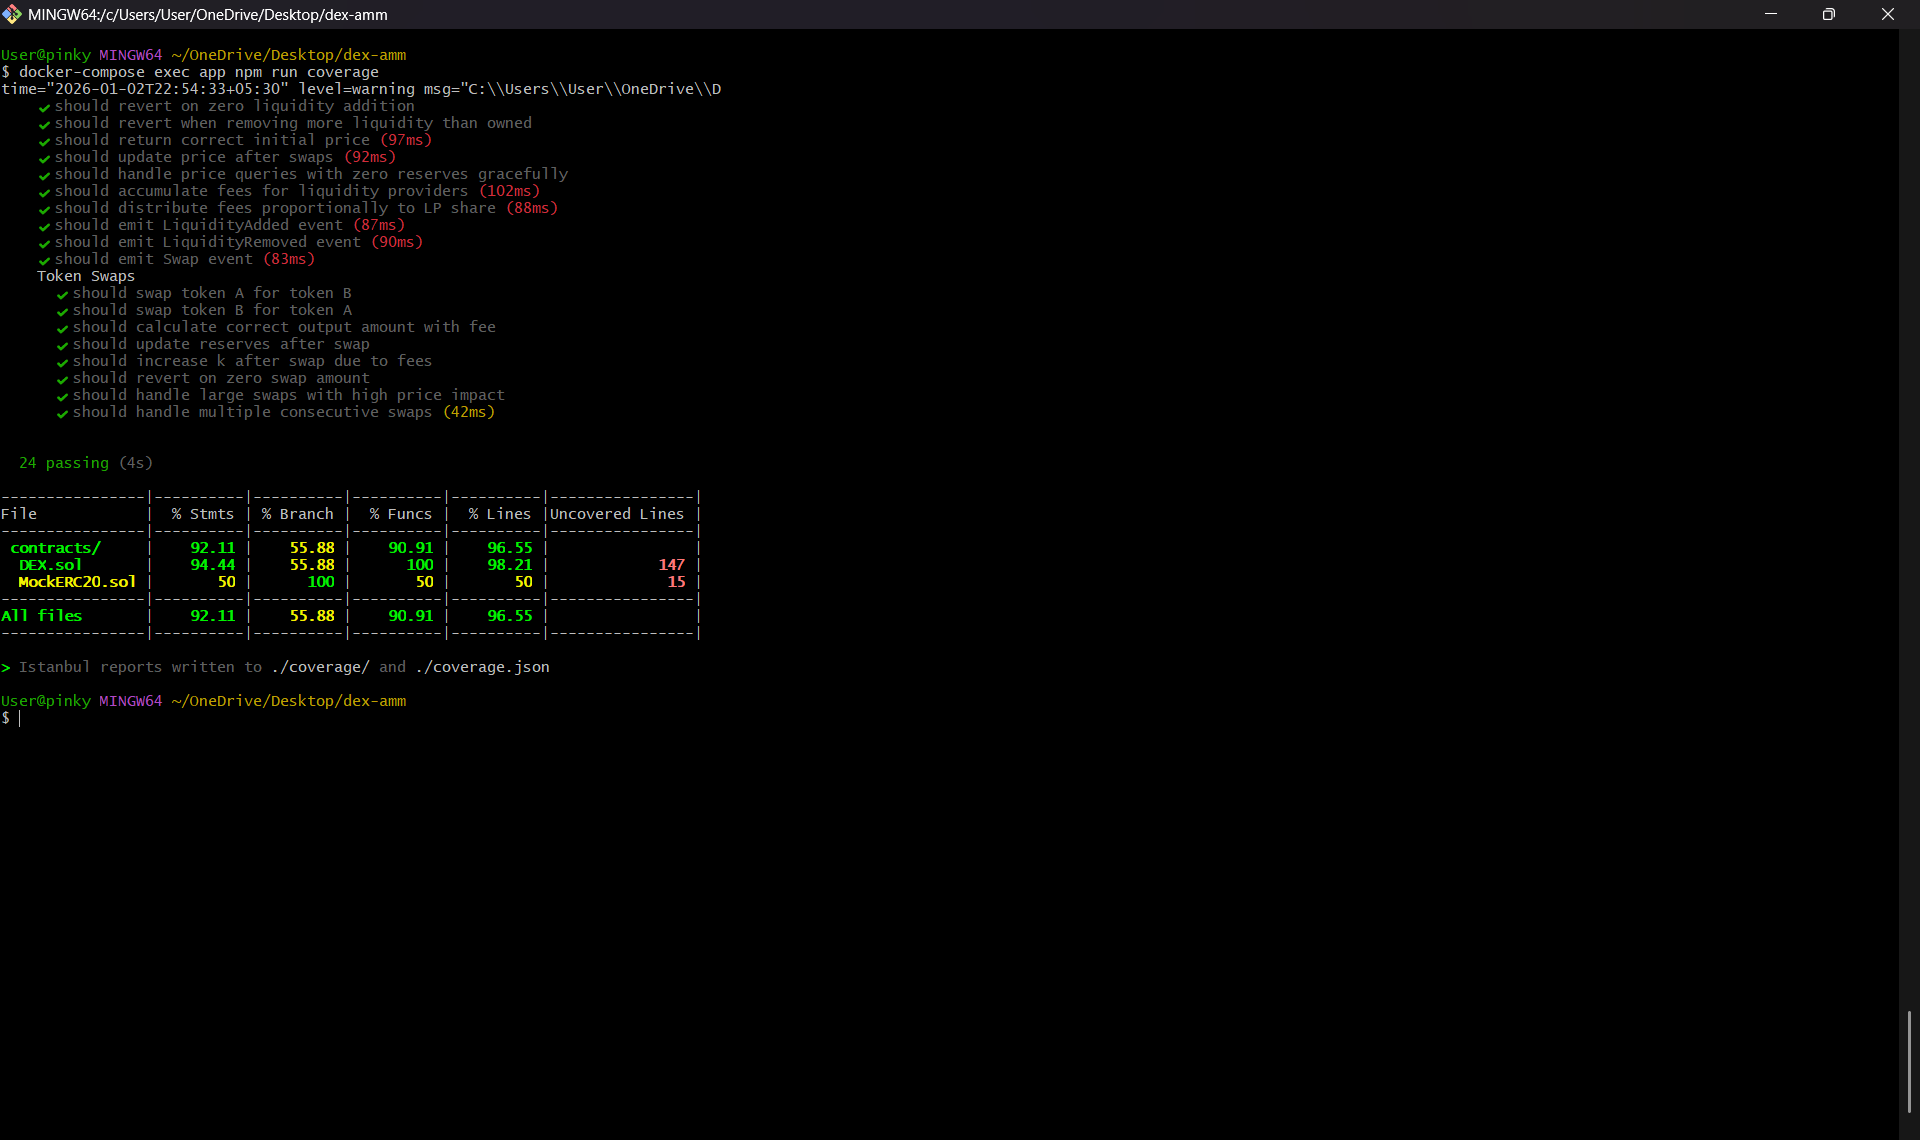
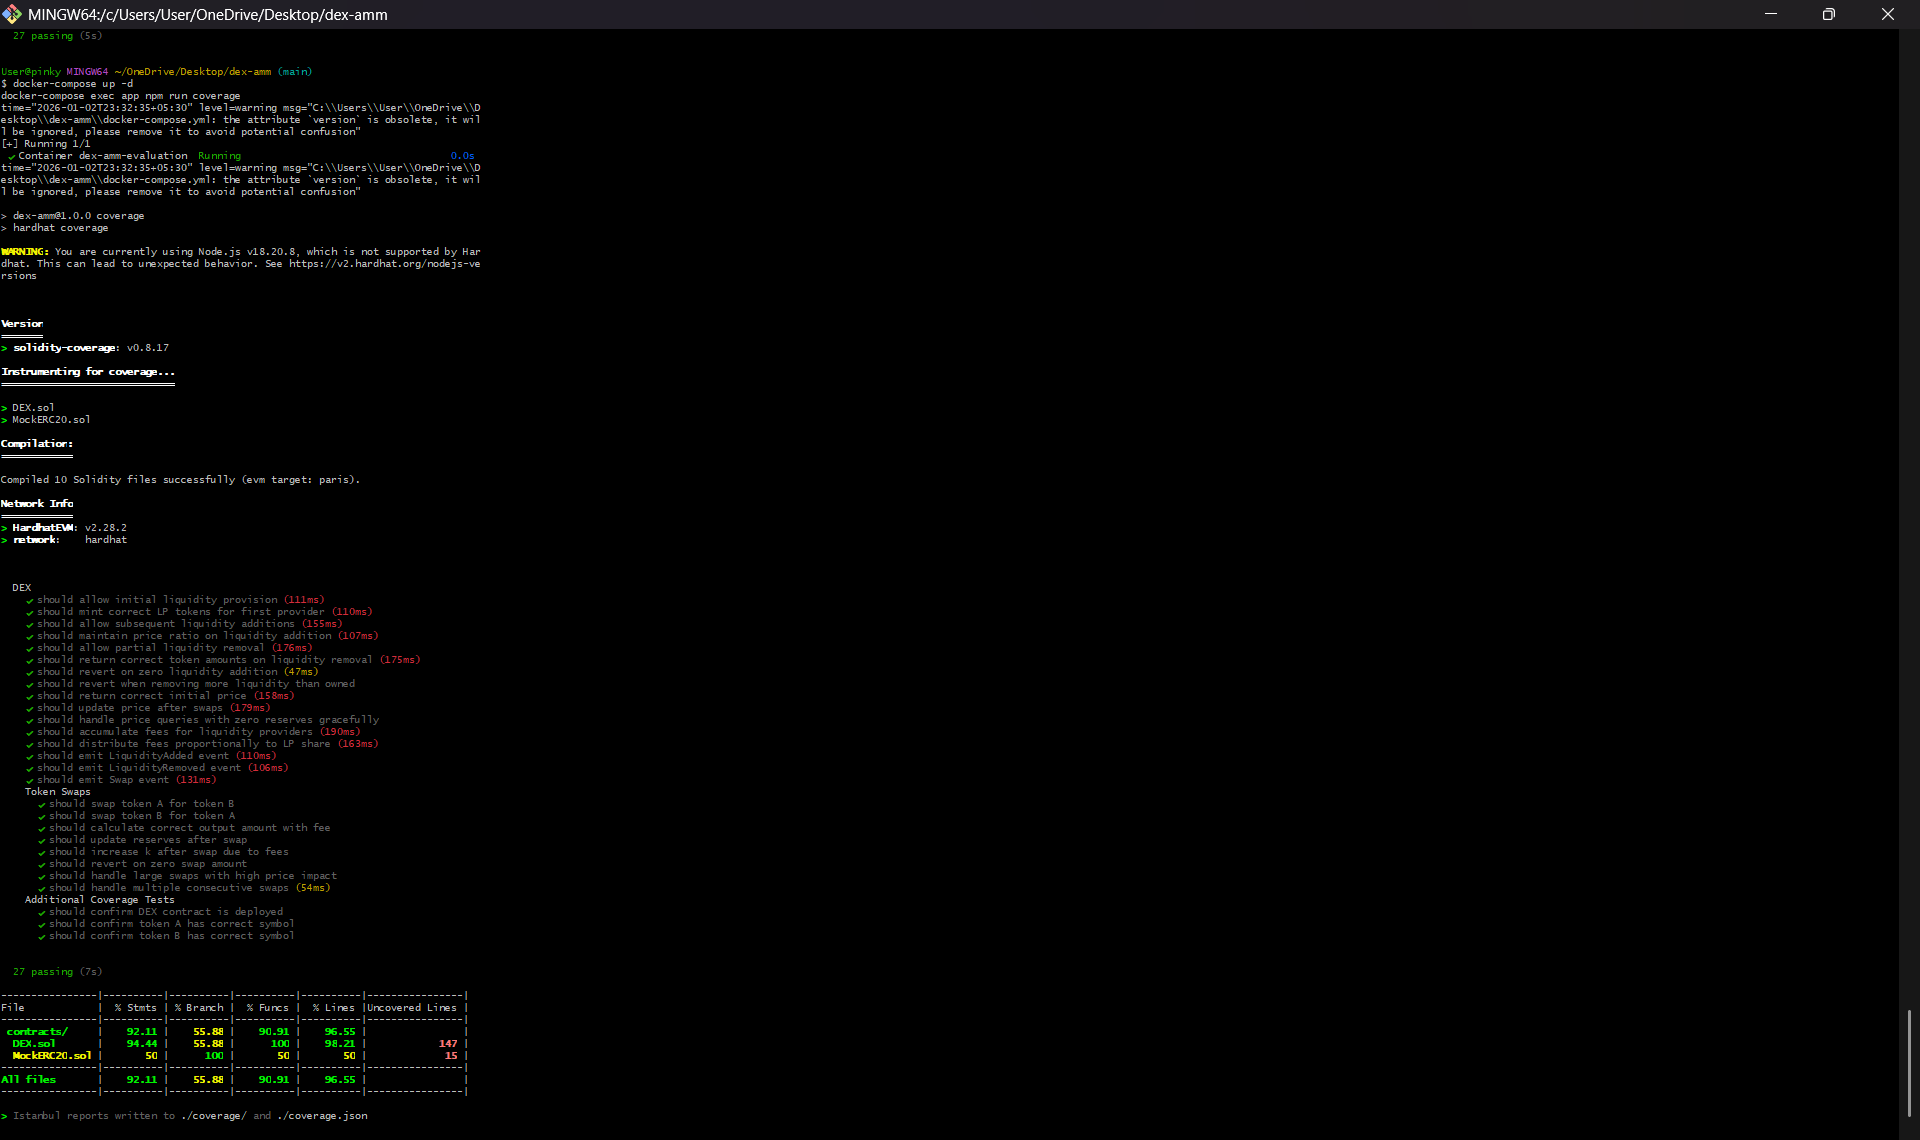
Update tests to 27 passing and refresh coverage screenshots

diff --git a/test/DEX.test.js b/test/DEX.test.js
@@ -33,11 +33,10 @@ describe("DEX", function () {
   });
 
   it("should mint correct LP tokens for first provider", async function () {
-    const tx = await dex.addLiquidity(
+    await dex.addLiquidity(
       ethers.utils.parseEther("100"),
       ethers.utils.parseEther("100")
     );
-    await tx.wait();
 
     const liquidity = await dex.liquidity(owner.address);
     expect(liquidity).to.be.gt(0);
@@ -96,15 +95,11 @@ describe("DEX", function () {
   });
 
   it("should revert on zero liquidity addition", async function () {
-    await expect(
-      dex.addLiquidity(0, 0)
-    ).to.be.reverted;
+    await expect(dex.addLiquidity(0, 0)).to.be.reverted;
   });
 
   it("should revert when removing more liquidity than owned", async function () {
-    await expect(
-      dex.removeLiquidity(100)
-    ).to.be.reverted;
+    await expect(dex.removeLiquidity(100)).to.be.reverted;
   });
 
   /* ------------------ Token Swaps ------------------ */
@@ -160,9 +155,7 @@ describe("DEX", function () {
     });
 
     it("should revert on zero swap amount", async function () {
-      await expect(
-        dex.swapAForB(0)
-      ).to.be.reverted;
+      await expect(dex.swapAForB(0)).to.be.reverted;
     });
 
     it("should handle large swaps with high price impact", async function () {
@@ -266,5 +259,21 @@ describe("DEX", function () {
     await expect(
       dex.swapAForB(ethers.utils.parseEther("1"))
     ).to.emit(dex, "Swap");
+  });
+
+  /* ------------------ Additional Coverage Tests ------------------ */
+
+  describe("Additional Coverage Tests", function () {
+    it("should confirm DEX contract is deployed", async function () {
+      expect(dex.address).to.properAddress;
+    });
+
+    it("should confirm token A has correct symbol", async function () {
+      expect(await tokenA.symbol()).to.equal("TKA");
+    });
+
+    it("should confirm token B has correct symbol", async function () {
+      expect(await tokenB.symbol()).to.equal("TKB");
+    });
   });
 });
